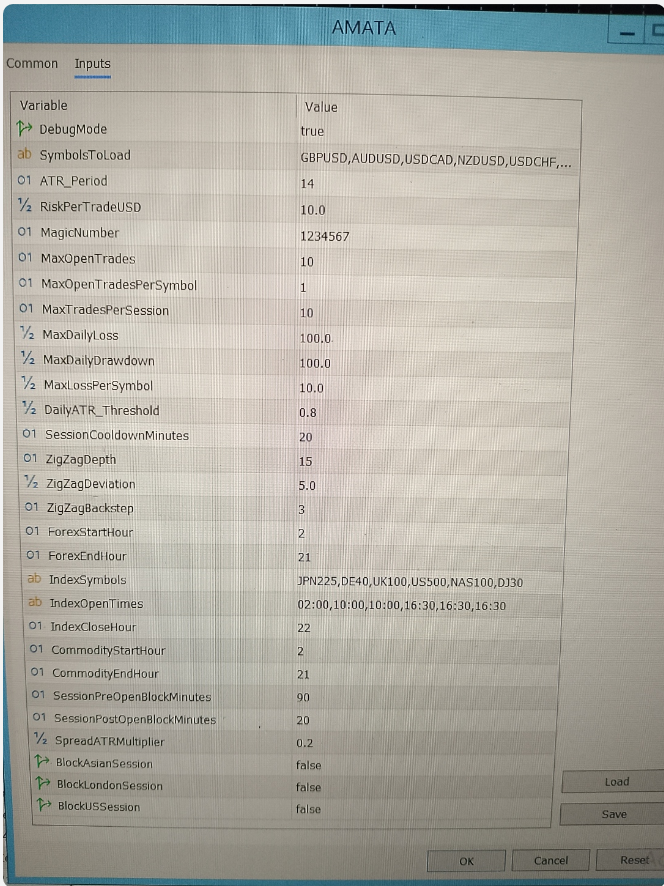
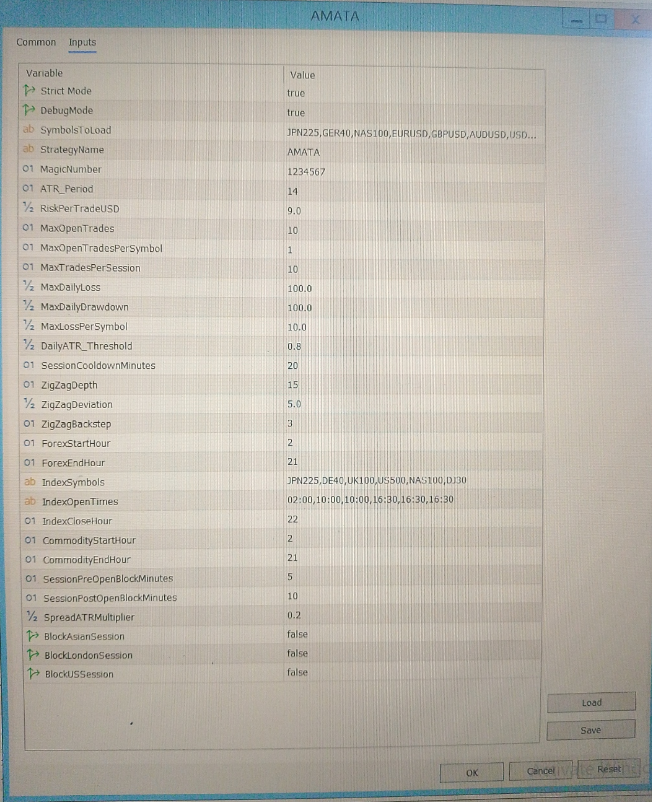
docs: Updated AMATA Platform Configurations with Strict Mode and a new user inputs illustration

diff --git a/docs/AMATA_Platform_Configurations.md b/docs/AMATA_Platform_Configurations.md
@@ -44,6 +44,25 @@ Extends the block after session open to avoid spread spikes and chaotic opening 
 
 Also applies only to sessions that are actively blocked.
 
+## 1.1 Strict Mode (Platform Integrity Protection)
+
+### **- StrictMode**
+Prevents users from manually modifying or interfering with trades that AMATA has opened and is managing.
+
+When **StrictMode = true**, AMATA enforces full platform integrity by blocking:
+
+- manual closing of AMATA‑managed positions  
+- manual modification of SL/TP  
+- manual volume adjustments  
+- manual movement or deletion of pending orders  
+- any discretionary intervention that would break AMATA’s internal logic  
+
+This ensures that AMATA can operate with full autonomy and execute its strategy without disruption.  
+Strict Mode is recommended for all production environments where AMATA’s statistical edge and execution logic must remain intact.
+
+Strict Mode exists to guarantee that AMATA’s execution logic, statistical edge and risk framework remain intact — without the risk of accidental or emotional manual interference.
+If the user disables Strict Mode, they regain full manual control — but also assume responsibility for any deviations from AMATA’s intended behavior.
+
 ---
 
 ## 2. Volatility & Exhaustion Controls
